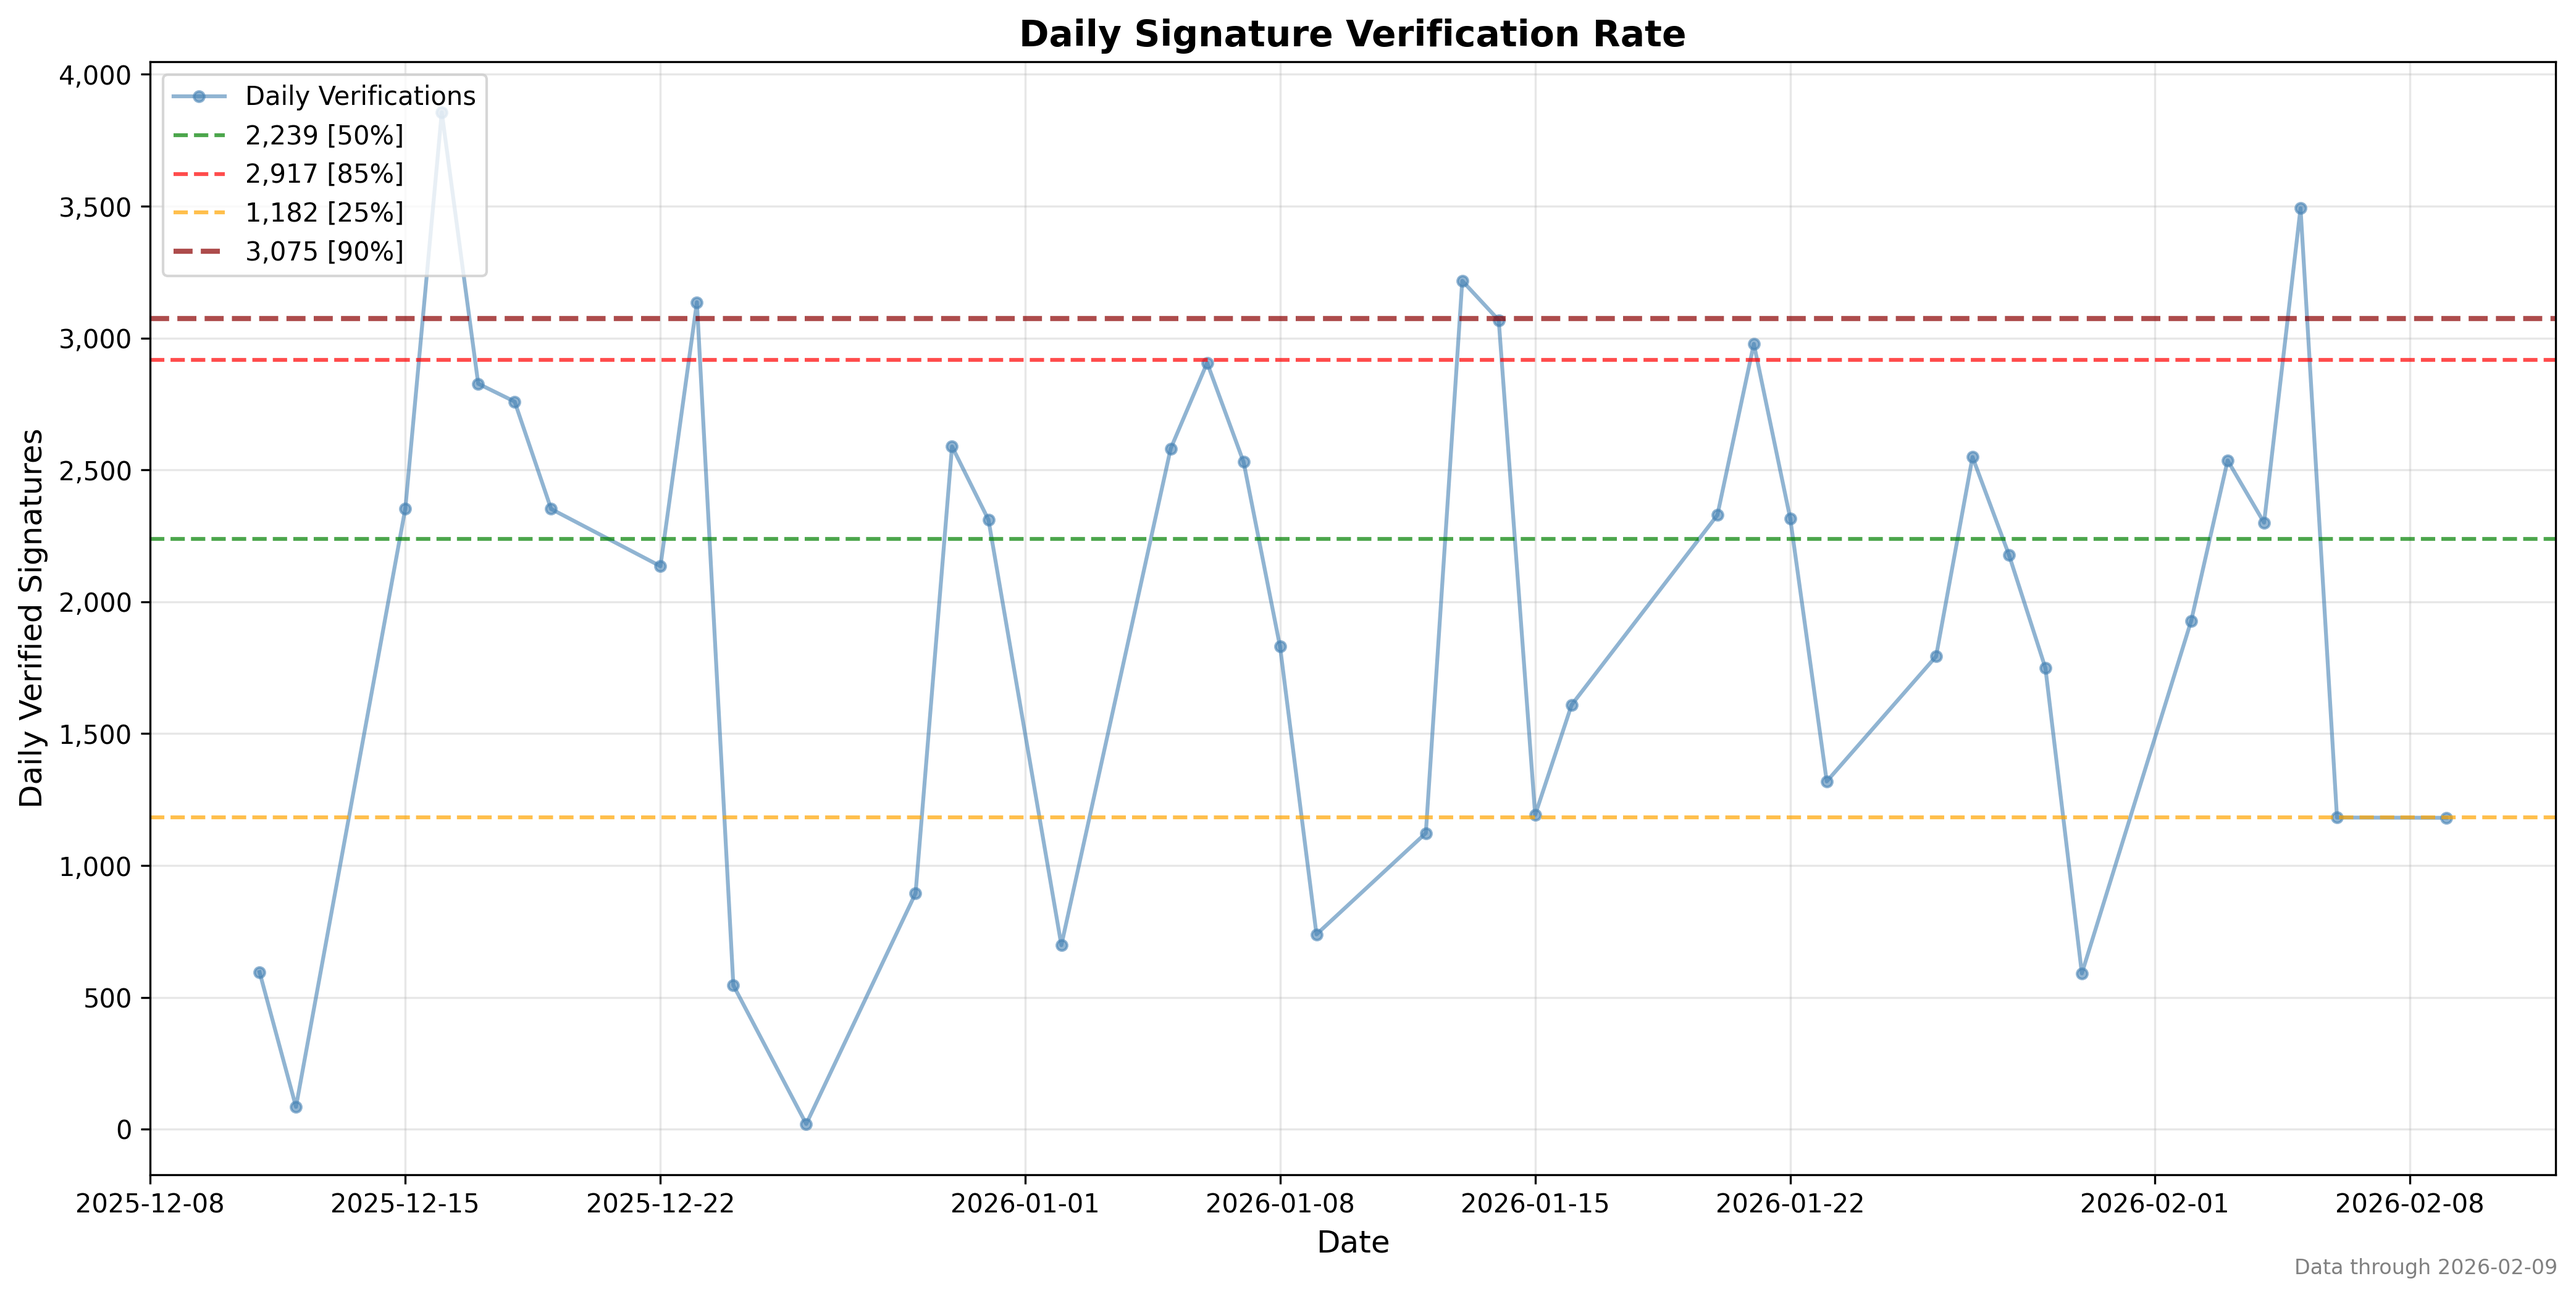
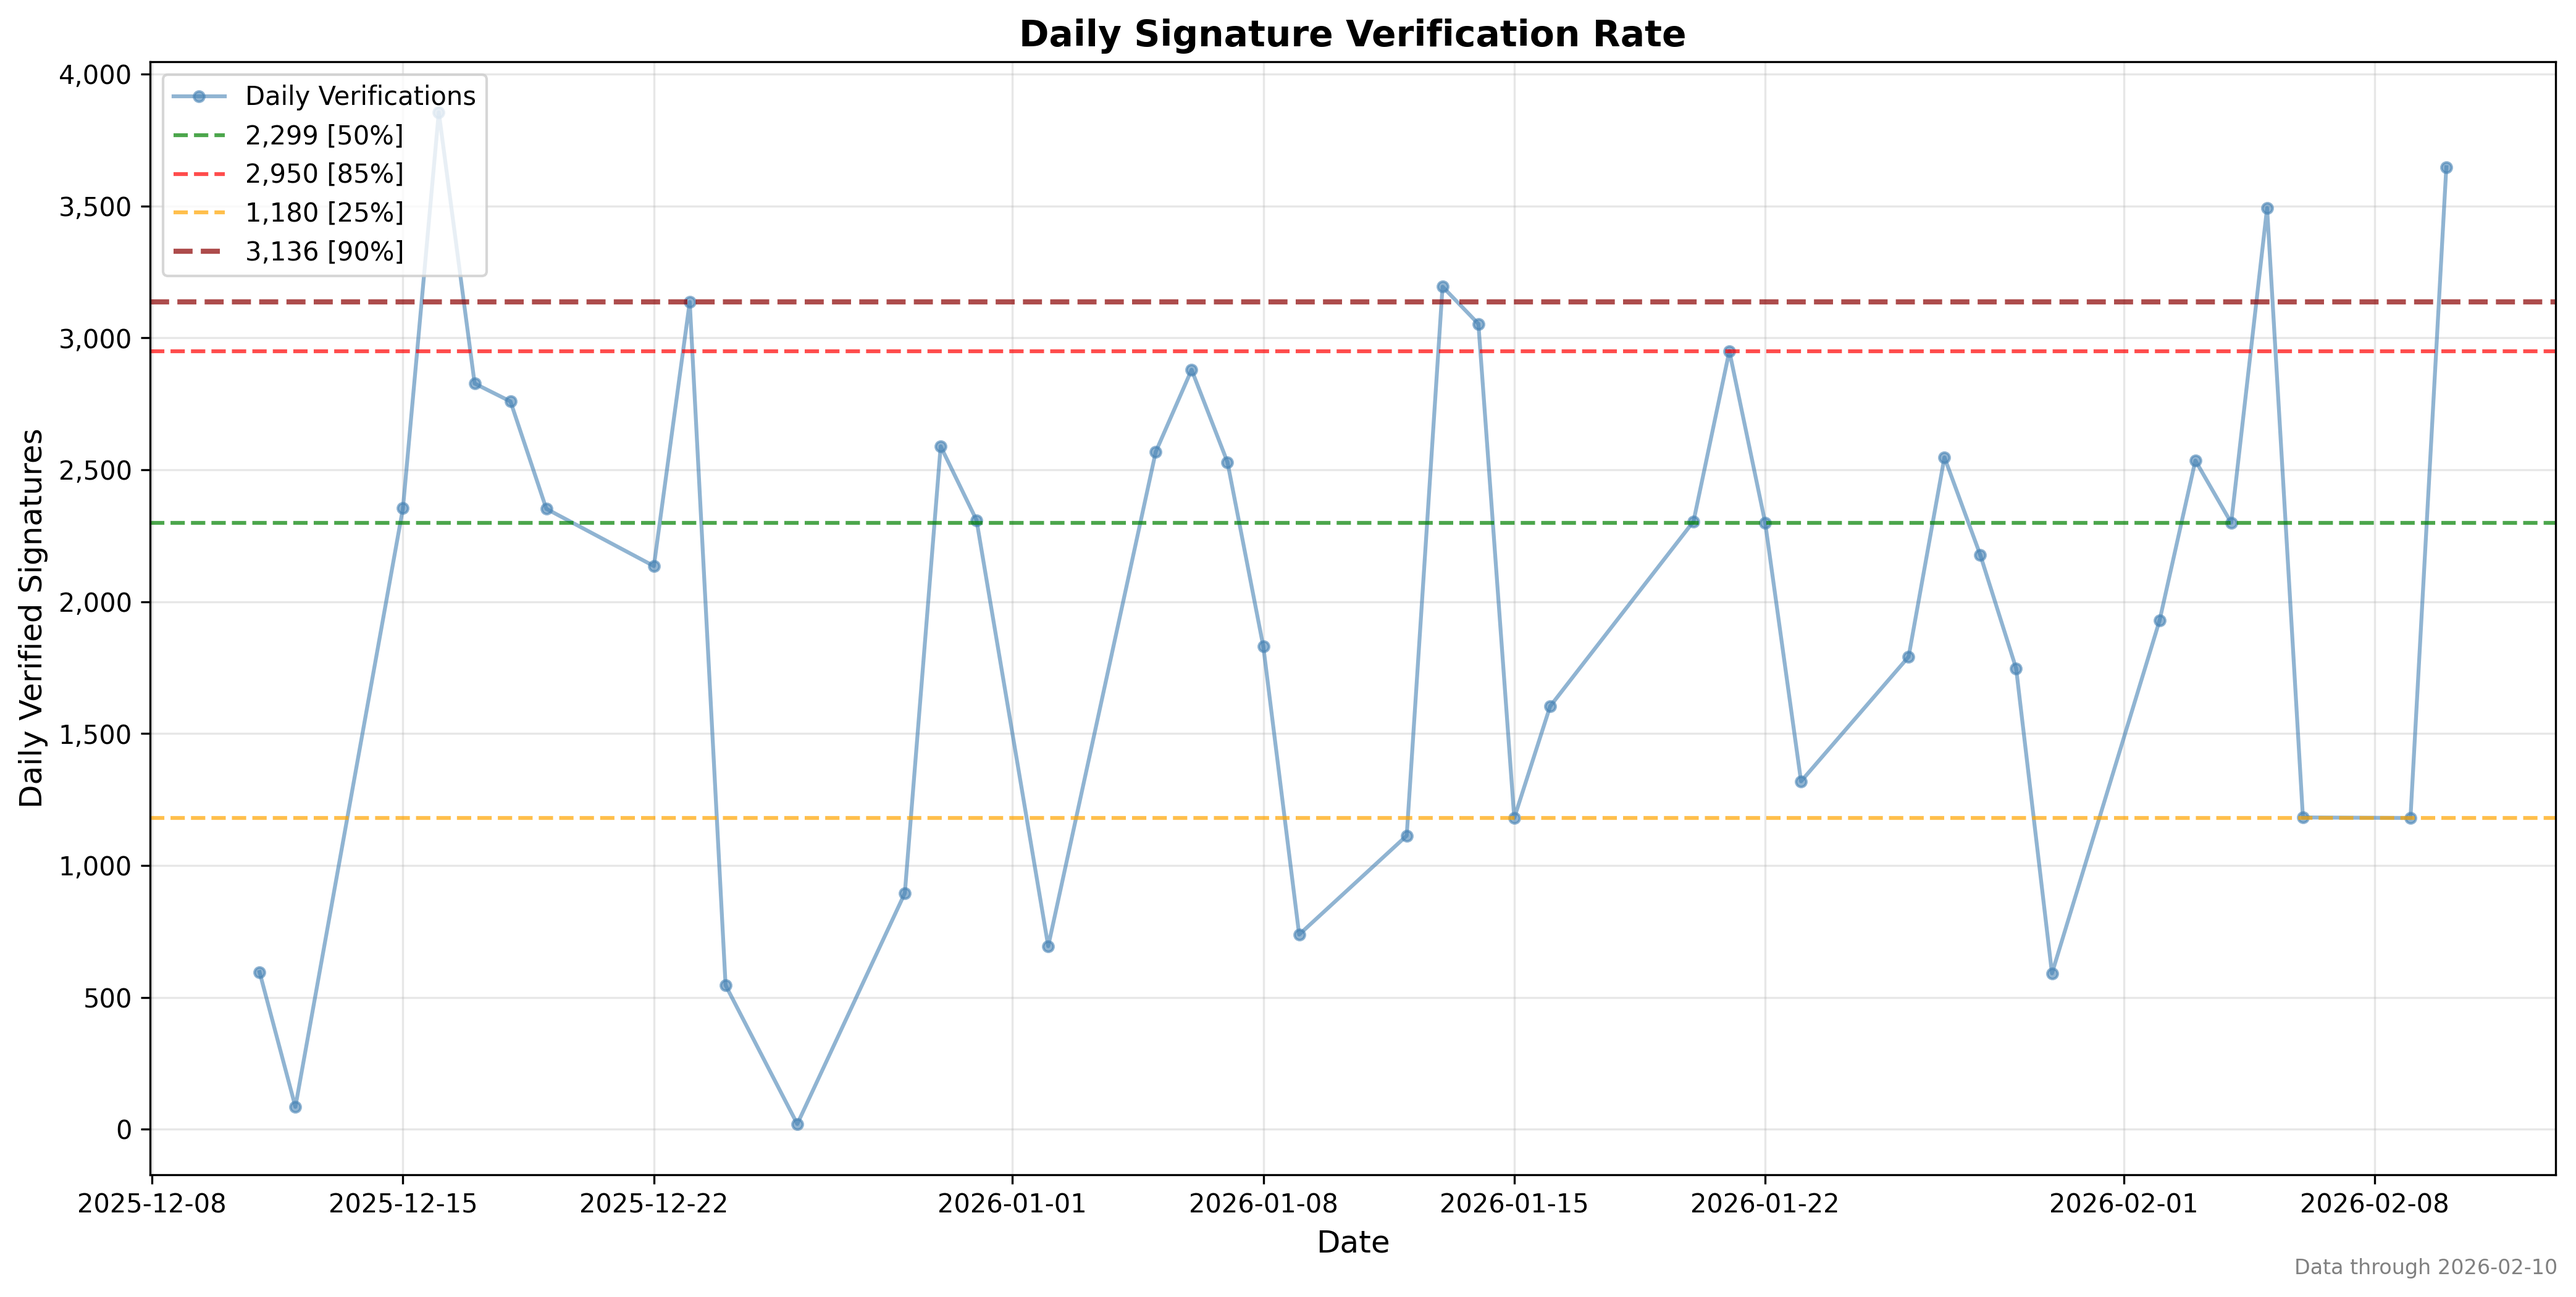
Data update for 2026-02-11 + fix typos and make minor adjustments

diff --git a/historical_simulations.py b/historical_simulations.py
@@ -24,7 +24,7 @@ CAMPAIGN_BD = CustomBusinessDay(calendar=CampaignHolidayCalendar())
 # ==========================================
 # FIGURES DIRECTORY SETUP
 # ==========================================
-FIGURES_DIR = "HistoricalBootrap"
+FIGURES_DIR = "HistoricalBootstrap"
 if not os.path.exists(FIGURES_DIR):
     os.makedirs(FIGURES_DIR)
     print(f"Created {FIGURES_DIR} directory")
@@ -38,7 +38,7 @@ N_SIMULATIONS = 100000
 
 # OPTIMISM SETTING
 # 0.75 = Use top 25% of days
-OPTIMISM_THRESHOLD = 0.5
+OPTIMISM_THRESHOLD = 0.75
 
 # ==========================================
 # HARDCODED REQUIREMENTS (2026)
@@ -216,7 +216,7 @@ def plot_all_scenarios(summary_std, counts_std, totals_std, summary_opt, counts_
     ax1.axhline(y=1.0, color='grey', linestyle='-', alpha=0.3)
     ax1.set_ylabel('Probability')
     ax1.set_xlabel('Senate District')
-    ax1.set_title(f'Probability of Meeting Requirement by District\n(Historical bootstrap, sampling {standard_days} days vs. best {optimistic_days} days)')
+    ax1.set_title(f'Probability of Meeting Requirement by District\n(Historical bootstrap, sampling all {standard_days} days vs. best {optimistic_days} days)')
     ax1.set_xticks(x)
     ax1.set_ylim(0, 1.05)
     ax1.legend(loc='lower right')
@@ -243,7 +243,7 @@ def plot_all_scenarios(summary_std, counts_std, totals_std, summary_opt, counts_
     ax2.axvline(x=26, color='red', linestyle='--', linewidth=2, label='Requirement (26)')
     ax2.set_xlabel('Number of Districts Passed')
     ax2.set_ylabel('Relative frequency (%)')
-    ax2.set_title(f'Distribution of Districts Passing\n(Historical bootstrap, sampling {standard_days} days vs. best {optimistic_days} days)')
+    ax2.set_title(f'Distribution of Districts Passing\n(Historical bootstrap, sampling all {standard_days} days vs. best {optimistic_days} days)')
     ax2.legend()
     ax2.grid(axis='y', alpha=0.3)
     plt.tight_layout()
@@ -274,7 +274,7 @@ def plot_all_scenarios(summary_std, counts_std, totals_std, summary_opt, counts_
     
     ax3.set_xlabel('Total Verified Signatures')
     ax3.set_ylabel('Relative frequency (%)')
-    ax3.set_title(f'Final Statewide Totals\n(Historical bootstrap, sampling {standard_days} days vs. best {optimistic_days} days)')
+    ax3.set_title(f'Final Statewide Totals\n(Historical bootstrap, sampling all {standard_days} days vs. best {optimistic_days} days)')
     ax3.legend(loc='upper left')
     ax3.grid(axis='y', alpha=0.3)
     # Format x-axis with commas

diff --git a/README.md b/README.md
@@ -23,7 +23,7 @@ Models possible outcomes of signature gathering initiative based on historical d
     - For historical portion, a default window of the most recent 30 days accumulate hidden signatures.
     - For future portion, simulated days before the end of signature collection (2/15) also accumulate hidden signatures.
     - Two hidden signature scenarios (conservative and aggressive) are implemented by default, based on difference between a baseline and a peak throughput derived from quantile rates in the observed data.
-- Plots saved to the [Hidden_w_PartisanBoost](Hidden_w_PartisanBoost) folder.
+- Plots saved to the [Hidden_w_PartisanBoost](Hidden_w_PartisanBoost) folder and 
 
 ## Install
 
@@ -43,7 +43,17 @@ Execute the simulation script from the repo root:
 python hidden_w_partisan_boost.py
 ```
 
-## Charts of best case scenario for sponsors
+# Figures
+
+## Bootstrap using historical performance only
+Samples only from historical performance data
+
+![District probabilities comparison](HistoricalBootstrap/01_district_probabilities.png)
+![Districts passed distribution](HistoricalBootstrap/02_districts_distribution.png)
+![Statewide totals distribution](HistoricalBootstrap/03_statewide_distribution.png)
+
+## Modified bootstrap Best case scenario for sponsors
+Samples historical performance boosted using some assumptions as described above.
 
 ![Daily verification rates](Hidden_w_PartisanBoost/00_daily_verification_rates.png)
 ![Partisan diagnostic](Hidden_w_PartisanBoost/01_partisan_diagnostic.png)
